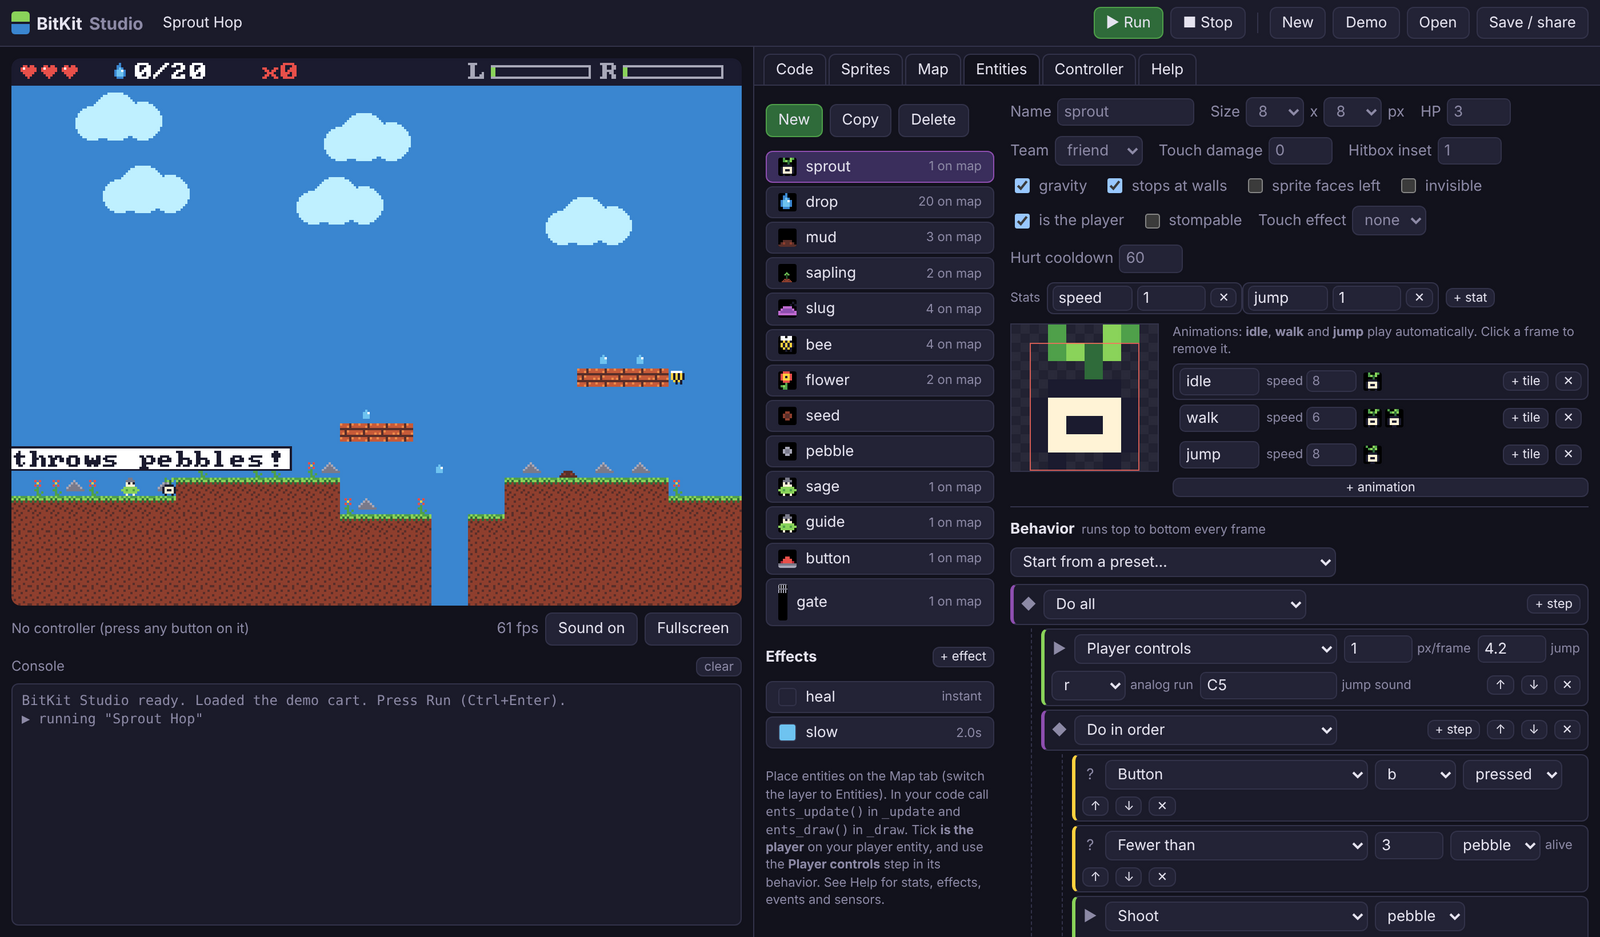
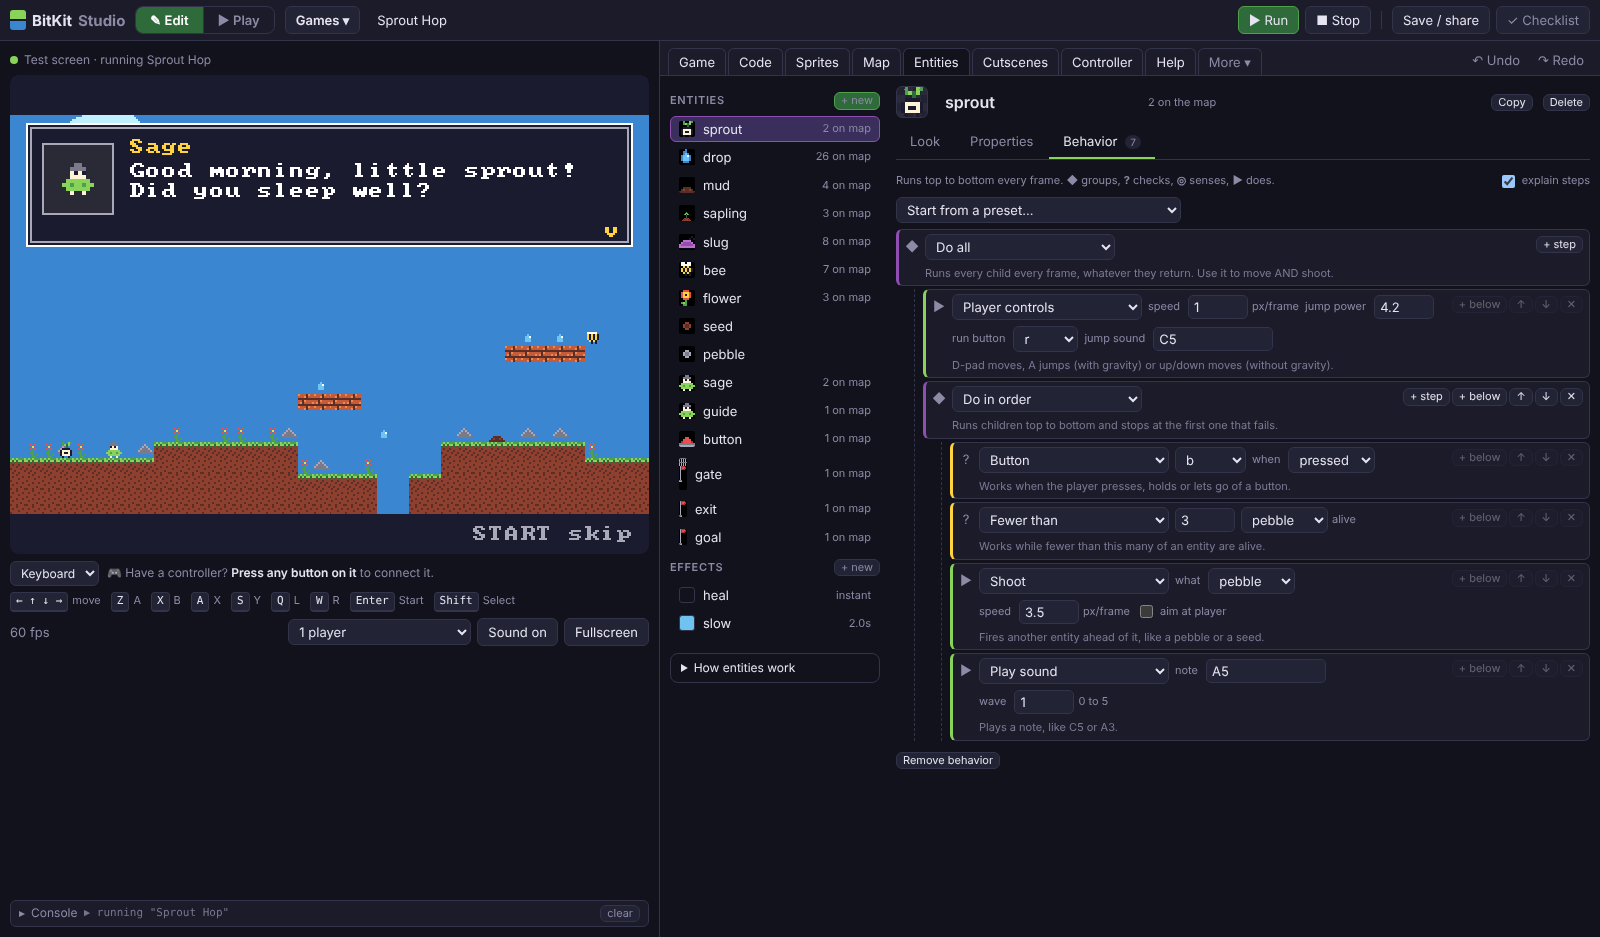
README: the studio as it is now, fresh screenshots
Claude-Session: https://claude.ai/code/session_0151z6WhCSzvig91kcWwgmTV

diff --git a/README.md b/README.md
@@ -36,21 +36,28 @@ The game runtime and browser studio for **PocketBit**, a DIY ESP32-S3 handheld.
 
 <img src="docs/media/studio-entities.png" alt="BitKit Studio entity editor with behavior tree">
 
+**Edit** and **Play** at the top switch between making a game and playing it on a Bit, the emulated PocketBit. Play can show two linked Bits side by side, each with its own controls, to try a game for two. **Games** has the demos and your own games, and each one keeps its own changes.
+
 | Tab | What it does |
 |---|---|
-| **Code** | Lua editor with syntax highlighting, error-line markers and a console |
-| **Sprites** | 512 tiles of 8×8 pixels; pen, fill, pick, flip, rotate and tile behaviours (named flags: tick `solid`, `water`… and ask `fget(tile, "water")`); a 256-colour palette editor |
-| **Map** | 256×128 tile map with Tiles and Entities layers. A ghost of your last 3 play routes shows where the player actually goes |
-| **Track** | For racing games (shows up when a cart has tracks): spline road editor, items along the lap, elevation brush and the road's segment tiles |
-| **Entities** | Sprites, animations, team, HP, stats, effects (heal, slow…) and a behavior tree with presets |
+| **Game** | Sliders, switches and lists for every number a game declares with `tune()`, the player's hearts and stats, and the game checklist |
+| **Code** | Lua editor with syntax highlighting, completion with a line of help for every function, find (Ctrl+F), error-line markers and a console |
+| **Sprites** | 512 tiles of 8×8 pixels; pen, fill, pick, flip, rotate and tile behaviours (named chips: switch on `solid`, `water`… and ask `fget(tile, "water")`); a 256-colour palette editor |
+| **Map** | 256×128 tile map with Tiles and Entities layers, paint, eraser, box and fill tools, zoom with the wheel. A ghost of your last 3 play routes shows where the player actually goes |
+| **Track** | For racing games: spline road editor, items along the lap, elevation brush and the road's segment tiles |
+| **Entities** | Sprites, animations, team, HP, stats, effects (heal, slow…) and a behavior tree with presets, where every step says what it does |
 | **Cutscenes** | Dialog with portraits, camera pans, walks, fades and screen shake. Play them when a level starts, from a trigger zone on the map, or from code |
 | **Controller** | Live view of every button, remapping, threshold and deadzone |
-| **Help** | Full API reference |
+| **Help** | Getting started, and the full API reference with search |
+
+Tabs a game does not use (Track for a platformer, Map for a racer) wait under **More**. Undo and redo work on every tab.
 
 <details>
 <summary>📸 More screenshots</summary>
 
 <img src="docs/media/studio-map.png" alt="Map editor with the player route overlay">
+
+<img src="docs/media/studio-two-bits.png" alt="Play: two linked Bits side by side">
 
 </details>
 
